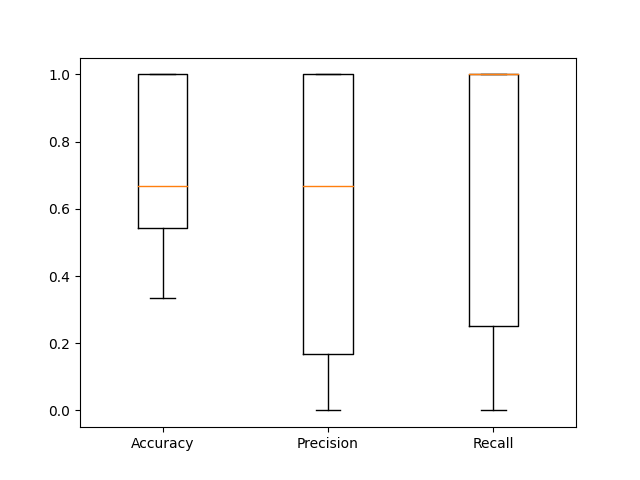
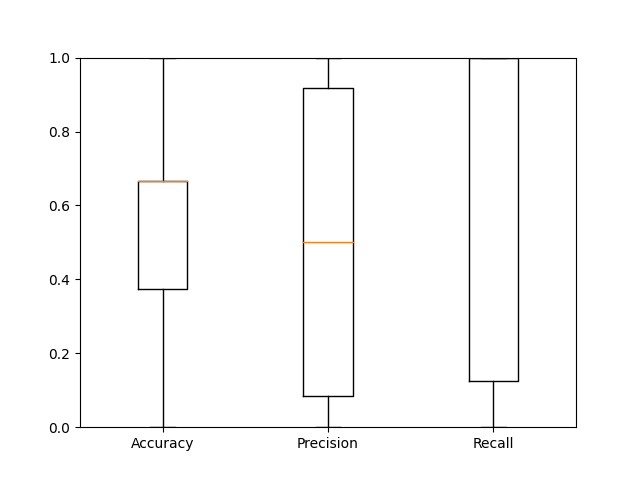
autosklearn experimenten

diff --git a/analyseData/randomForest.py b/analyseData/randomForest.py
@@ -11,11 +11,12 @@ from sklearn.metrics import classification_report, confusion_matrix, precision_s
 from sklearn.model_selection import StratifiedKFold
 from sklearn.model_selection import cross_val_score
 from sklearn import metrics
+from autosklearn.classification import AutoSklearnClassifier
 
 def randomForest(folder='/data/s2155435/pandafied_data/', inputFile='finalData.csv'):
     print("open: ",inputFile)
-    #resultFolder = '/home/s2155435/bep1/analyseData/results/'
-    resultFolder = './'
+    resultFolder = '/home/s2155435/bep1/analyseData/results/'
+    #resultFolder = './'
     resultFile = open (resultFolder+"resultRFAlice.txt", "w+")
     #load data
     rainTweets_eq = pd.read_csv(folder + inputFile)
@@ -59,10 +60,14 @@ def randomForest(folder='/data/s2155435/pandafied_data/', inputFile='finalData.c
 
         #print(test_features[0])
         #train and test the decision tree
-        rf = RandomForestClassifier(n_estimators = 1000, random_state = 42)        
+        # rf = RandomForestClassifier(n_estimators = 1000, random_state = 42)        
+        rf = AutoSklearnClassifier(time_left_for_this_task=60*60, per_run_time_limit=5*60)
         rf.fit(train_features, train_labels)
         label_prediction = rf.predict(test_features)
 
+        autosklResults = pd.DataFrame(rf.cv_results_)
+        autosklResults.to_csv("autosklearn.csv")
+        print(autosklResults)
         #output performance subtree
         #errors = abs(label_prediction - test_labels)
         #print('Mean Absolute Error:', round(np.mean(errors), 2))
@@ -83,15 +88,15 @@ def randomForest(folder='/data/s2155435/pandafied_data/', inputFile='finalData.c
         resultFile.write("Precision: "+str(precision_score(test_labels, label_prediction))+"\n")
         resultFile.write("Recall: "+str(recall_score(test_labels, label_prediction)) + "\n\n")
         
-        tree = rf.estimators_[4]# Import tools needed for visualization
-        from sklearn.tree import export_graphviz
-        import pydot# Pull out one tree from the forest
-        tree = rf.estimators_[5]# Export the image to a dot file
-        outputFile = resultFolder+"tree"+str(treeNumber)+".dot"
-        export_graphviz(tree, out_file = outputFile, feature_names = feature_list, rounded = True, precision = 1)# Use dot file to create a graph
-        #(graph, ) = pydot.graph_from_dot_file('tree.dot')# Write graph to a png file
-        #graph.write_png('tree.png')
-        treeNumber+=1
+        # tree = rf.estimators_[4]# Import tools needed for visualization
+        # from sklearn.tree import export_graphviz
+        # import pydot# Pull out one tree from the forest
+        # tree = rf.estimators_[5]# Export the image to a dot file
+        # outputFile = resultFolder+"tree"+str(treeNumber)+".dot"
+        # export_graphviz(tree, out_file = outputFile, feature_names = feature_list, rounded = True, precision = 1)# Use dot file to create a graph
+        # #(graph, ) = pydot.graph_from_dot_file('tree.dot')# Write graph to a png file
+        # #graph.write_png('tree.png')
+        # treeNumber+=1
         
     #output cross validation performance
     #all_accuracies = cross_val_score(estimator=rf, X=features, y=labels, cv=10)
@@ -113,9 +118,11 @@ def randomForest(folder='/data/s2155435/pandafied_data/', inputFile='finalData.c
     plt.show()
    
 if __name__ == '__main__':
-    inputFile = 'finalDataRandom.csv'
+    inputFile1 = 'Adress/finalDataAdress.csv'
+    inputFile2 = 'Random/finalDataRandom.csv'
     if(sys.argv[1] == "y"):
         sampleFile="finalDataSample.csv"
         randomForest(folder="../../pandafied_data/",inputFile=sampleFile)
     elif(sys.argv[1] == "n"):
-        randomForest(inputFile = inputFile)
+        randomForest(inputFile = inputFile1)
+        randomForest(inputFile = inputFile2)

diff --git a/analyseData/rfDepSamp.py b/analyseData/rfDepSamp.py
@@ -11,9 +11,10 @@ from sklearn.metrics import classification_report, confusion_matrix, precision_s
 from sklearn.model_selection import StratifiedKFold
 from sklearn.model_selection import cross_val_score
 from sklearn import metrics
+from autosklearn.classification import AutoSklearnClassifier
 
 def randomForest(folder='/data/s2155435/pandafied_data/', inputFile1='posHeight.csv', inputFile2='negHeight.csv'):
-    resultFolder = '/home/s2155435/bep1/analyseData/results/'
+    resultFolder = '/home/s2155435/bep1/analyseData/results/Dep/'
     #resultFolder = './results/'
     resultFile = open (resultFolder+"resultRFAlice.txt", "w+")
     #load data
@@ -84,7 +85,9 @@ def randomForest(folder='/data/s2155435/pandafied_data/', inputFile1='posHeight.
         test_labels = np.concatenate((test_labels_pos, test_labels_neg))
 
         #train and test the decision tree
-        rf = RandomForestClassifier(n_estimators = 1000, random_state = 42)        
+        #rf = RandomForestClassifier(n_estimators = 1000, random_state = 42)  
+        rf = AutoSklearnClassifier(time_left_for_this_task=60*60, per_run_time_limit=5*60)
+      
         rf.fit(train_features, train_labels)
         label_prediction = rf.predict(test_features)
 
@@ -105,13 +108,13 @@ def randomForest(folder='/data/s2155435/pandafied_data/', inputFile1='posHeight.
         resultFile.write("Precision: "+str(precision_score(test_labels, label_prediction))+"\n")
         resultFile.write("Recall: "+str(recall_score(test_labels, label_prediction)) + "\n\n")
         
-        tree = rf.estimators_[4]# Import tools needed for visualization
-        from sklearn.tree import export_graphviz
-        import pydot# Pull out one tree from the forest
-        tree = rf.estimators_[5]# Export the image to a dot file
-        outputFile = resultFolder+"tree"+str(treeNumber)+".dot"
-        export_graphviz(tree, out_file = outputFile, feature_names = feature_list, rounded = True, precision = 1)# 
-        treeNumber+=1
+        # tree = rf.estimators_[4]# Import tools needed for visualization
+        # from sklearn.tree import export_graphviz
+        # import pydot# Pull out one tree from the forest
+        # tree = rf.estimators_[5]# Export the image to a dot file
+        # outputFile = resultFolder+"tree"+str(treeNumber)+".dot"
+        # export_graphviz(tree, out_file = outputFile, feature_names = feature_list, rounded = True, precision = 1)# 
+        # treeNumber+=1
 
     fig, ax = plt.subplots()
     data = [accuracyResult, precisionResult, recallResult]
